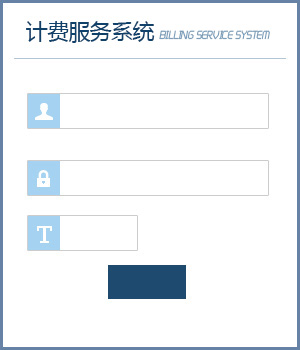
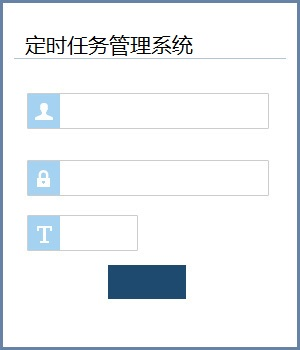
修改登陆页面

Changed region(s): [[0.09, 0.0571, 0.9, 0.1714]]

diff --git a/spring-boot-base/src/main/resources/templates/login/login.htm b/spring-boot-base/src/main/resources/templates/login/login.htm
@@ -4,7 +4,7 @@
 <head>
     <base href="<%=basePath%>">
 
-    <title>美利车金融-计费系统</title>
+    <title>后台定时任务管理系统</title>
 
     <meta charset="utf-8">
     <meta http-equiv="pragma" content="no-cache">
@@ -187,7 +187,7 @@
 <body class="page page-hybird">
 <div class="page-header">
     <div class="container">
-        <img class="logo" src="/img/logo-x.png">
+        <img class="logo" src="/img/logo.png">
     </div>
 </div>
 <!-- Login-yc ================================================== -->
@@ -226,8 +226,8 @@
                     <div class="form-actions">
                         <button id="login-btn" class="btn span1" style="margin-top: -5px;"
                                 hidefocus="true" v-on:click.stop.prevent="handleSubmit2">
-                            <h4 id="login-font">登 录</h4><img id="loading-btn" style="display: none"
-                                                             src="/img/loading.gif"></img>
+                            <h4 id="login-font">登 录</h4>
+                            <img id="loading-btn" style="display: none" src="/img/loading.gif"/>
                         </button>
                     </div>
                 </fieldset>
@@ -252,7 +252,7 @@
     </div>
 </div>
 <div style="margin-top:0px; position:relative;">
-    <div><a href="https://www.yooliafc.com" style="TEXT-DECORATION:none;" target="_blank">系统支持：力蕴汽车咨询服务（上海）有限公司</a> <br>
+    <div><a href="https://www.yooliafc.com" style="TEXT-DECORATION:none;" target="_blank">系统支持：在路上工作室</a> <br>
     </div>
 </div>
 </body>

diff --git a/spring-boot-base/target/classes/templates/login/login.htm b/spring-boot-base/target/classes/templates/login/login.htm
@@ -4,7 +4,7 @@
 <head>
     <base href="<%=basePath%>">
 
-    <title>美利车金融-计费系统</title>
+    <title>后台定时任务管理系统</title>
 
     <meta charset="utf-8">
     <meta http-equiv="pragma" content="no-cache">
@@ -187,7 +187,7 @@
 <body class="page page-hybird">
 <div class="page-header">
     <div class="container">
-        <img class="logo" src="/img/logo-x.png">
+        <img class="logo" src="/img/logo.png">
     </div>
 </div>
 <!-- Login-yc ================================================== -->
@@ -226,8 +226,8 @@
                     <div class="form-actions">
                         <button id="login-btn" class="btn span1" style="margin-top: -5px;"
                                 hidefocus="true" v-on:click.stop.prevent="handleSubmit2">
-                            <h4 id="login-font">登 录</h4><img id="loading-btn" style="display: none"
-                                                             src="/img/loading.gif"></img>
+                            <h4 id="login-font">登 录</h4>
+                            <img id="loading-btn" style="display: none" src="/img/loading.gif"/>
                         </button>
                     </div>
                 </fieldset>
@@ -252,7 +252,7 @@
     </div>
 </div>
 <div style="margin-top:0px; position:relative;">
-    <div><a href="https://www.yooliafc.com" style="TEXT-DECORATION:none;" target="_blank">系统支持：力蕴汽车咨询服务（上海）有限公司</a> <br>
+    <div><a href="https://www.yooliafc.com" style="TEXT-DECORATION:none;" target="_blank">系统支持：在路上工作室</a> <br>
     </div>
 </div>
 </body>

diff --git a/spring-boot-base/src/main/resources/templates/login/index.htm b/spring-boot-base/src/main/resources/templates/login/index.htm
@@ -13,13 +13,13 @@
     <el-row class="container">
         <el-col :span="24" class="header" style="background-color: #191970">
             <el-col :span="10" class="logo" :class="collapsed?'logo-collapse-width':'logo-width'">
-                计费服务系统
+                后台定时任务管理系统
             </el-col>
             <el-col :span="15">
                 <div style="position: relative;width: 100%;">
                     <marquee
                             style="width:100% ;position: absolute;z-index: 100;color:red;font-weight:900;"
-                            behavior="scroll" direction="left" scrollamount="2">美利车金融计费服务系统正式试运行，感谢所有合作伙伴的鼎力支持！！！
+                            behavior="scroll" direction="left" scrollamount="2">后台定时任务管理系统正式运行，感谢所有合作伙伴的鼎力支持！！！
                     </marquee>
                 </div>
             </el-col>

diff --git a/spring-boot-base/target/classes/templates/login/index.htm b/spring-boot-base/target/classes/templates/login/index.htm
@@ -13,13 +13,13 @@
     <el-row class="container">
         <el-col :span="24" class="header" style="background-color: #191970">
             <el-col :span="10" class="logo" :class="collapsed?'logo-collapse-width':'logo-width'">
-                计费服务系统
+                后台定时任务管理系统
             </el-col>
             <el-col :span="15">
                 <div style="position: relative;width: 100%;">
                     <marquee
                             style="width:100% ;position: absolute;z-index: 100;color:red;font-weight:900;"
-                            behavior="scroll" direction="left" scrollamount="2">美利车金融计费服务系统正式试运行，感谢所有合作伙伴的鼎力支持！！！
+                            behavior="scroll" direction="left" scrollamount="2">后台定时任务管理系统正式运行，感谢所有合作伙伴的鼎力支持！！！
                     </marquee>
                 </div>
             </el-col>

diff --git a/spring-boot-base/src/main/java/com/hull/common/servlet/YZImageServlet.java b/spring-boot-base/src/main/java/com/hull/common/servlet/YZImageServlet.java
@@ -1,0 +1,118 @@
+package com.hull.common.servlet;
+
+import javax.imageio.ImageIO;
+import javax.servlet.ServletException;
+import javax.servlet.ServletOutputStream;
+import javax.servlet.annotation.WebServlet;
+import javax.servlet.http.HttpServlet;
+import javax.servlet.http.HttpServletRequest;
+import javax.servlet.http.HttpServletResponse;
+import javax.servlet.http.HttpSession;
+import java.awt.*;
+import java.awt.image.BufferedImage;
+import java.io.IOException;
+import java.util.Random;
+
+
+@WebServlet(urlPatterns = "/yzimage")
+public class YZImageServlet extends HttpServlet {
+    private static final String CONTENT_TYPE = "image/jpeg";
+
+    // private static final String [] FontNames={ "SansSerif ", "Serif ",
+    // "MonoSpaced ", "Dialog ", "DialogInput "};
+
+    // Initialize global variables
+    public void init() throws ServletException {
+    }
+
+    // Process the HTTP Get request
+    public void doGet(HttpServletRequest request, HttpServletResponse response)
+            throws ServletException, IOException {
+        response.setContentType(CONTENT_TYPE);
+        response.setHeader("Pragma ", "no-cache ");
+        response.setHeader("Cache-Control ", "no-cache ");
+        response.setDateHeader("Expires ", 0);
+
+        // 在内存中创建图象
+        int width = 60, height = 20;
+        BufferedImage image = new BufferedImage(width, height,
+                BufferedImage.TYPE_INT_RGB);
+
+        // 获取图形上下文
+        Graphics g = image.createGraphics();
+
+        // 生成随机类
+        Random random = new Random();
+
+        // 设定背景色
+        g.setColor(getRandColor(200, 250));
+        g.fillRect(0, 0, width, height);
+
+        // 设定字体
+        g.setFont(new Font("DialogInput ", Font.ITALIC, 18));
+        // g.setFont(new Font(FontNames[random.nextInt(6)%5], Font.ITALIC, 18));
+        // 画边框
+        // g.setColor(new Color());
+        // g.drawRect(0,0,width-1,height-1);
+
+        // 随机产生255条干扰线，使图象中的认证码不易被其它程序探测到
+        g.setColor(getRandColor(160, 200));
+        for (int i = 0; i < 255; i++) {
+            int x = random.nextInt(width);
+            int y = random.nextInt(height);
+            int xl = random.nextInt(12);
+            int yl = random.nextInt(12);
+            g.drawLine(x, y, x + xl, y + yl);
+        }
+
+        // 取随机产生的认证码(4位数字)
+        // String rand = request.getParameter( "rand ");
+        // rand = rand.substring(0,rand.indexOf( ". "));
+        String sRand = " ";
+        for (int i = 0; i < 4; i++) {
+            String rand = String.valueOf(random.nextInt(10));
+            sRand += rand;
+            // 将认证码显示到图象中
+            g.setColor(new Color(20 + random.nextInt(110), 20 + random
+                    .nextInt(110), 20 + random.nextInt(110))); // 调用函数出来的颜色相同，
+            // 可能是因为种子太接近
+            // ，所以只能直接生成
+            g.drawString(rand, 13 * i + 6, 16);
+        }
+        // System.out.println( "validate   code= " + sRand);
+
+        // 将认证码存入SESSION
+        String temp = request.getParameter("flag");
+        String fl = (temp != null ? temp : "");
+        HttpSession session = request.getSession();
+        if (fl.equals("2")) {
+            session.setAttribute("randC", sRand.trim());
+        } else {
+            session.setAttribute("randomCode", sRand.trim());
+        }
+        // 图象生效
+        g.dispose();
+
+        // 输出图象到页面
+        ServletOutputStream outputstream = response.getOutputStream();
+        ImageIO.write(image, "JPEG", outputstream);
+    }
+
+    // Clean up resources
+    public void destroy() {
+    }
+
+    Color getRandColor(int fc, int bc) { // 给定范围获得随机颜色
+        Random random = new Random();
+        if (fc > 255) {
+            fc = 255;
+        }
+        if (bc > 255) {
+            bc = 255;
+        }
+        int r = fc + random.nextInt(bc - fc);
+        int g = fc + random.nextInt(bc - fc);
+        int b = fc + random.nextInt(bc - fc);
+        return new Color(r, g, b);
+    }
+}

diff --git a/spring-boot-base/src/main/java/com/hull/web/LoginController.java b/spring-boot-base/src/main/java/com/hull/web/LoginController.java
@@ -20,8 +20,8 @@ public class LoginController extends BaseController{
     private Logger logger = LoggerFactory.getLogger(this.getClass());
 
     @RequestMapping("/")
-    public ModelAndView toLogin() {
-        logger.info("login");
+    public ModelAndView init() {
+        logger.info("init");
         return view("login/login");
     }
 
@@ -29,5 +29,14 @@ public class LoginController extends BaseController{
     public ModelAndView home(@PathVariable String page) {
         logger.info("login");
         return view("login/"+page);
+    }
+
+    @RequestMapping("/login")
+    public ModelAndView login(@PathVariable String page) {
+        logger.info("login");
+
+
+
+        return view("login/index");
     }
 }
